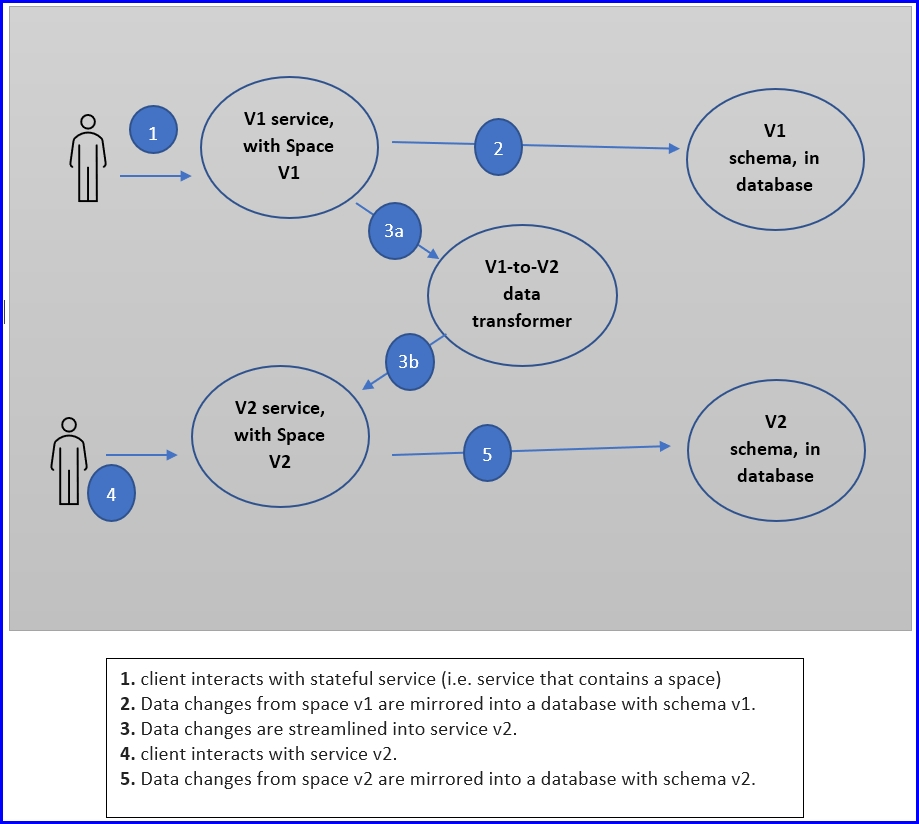
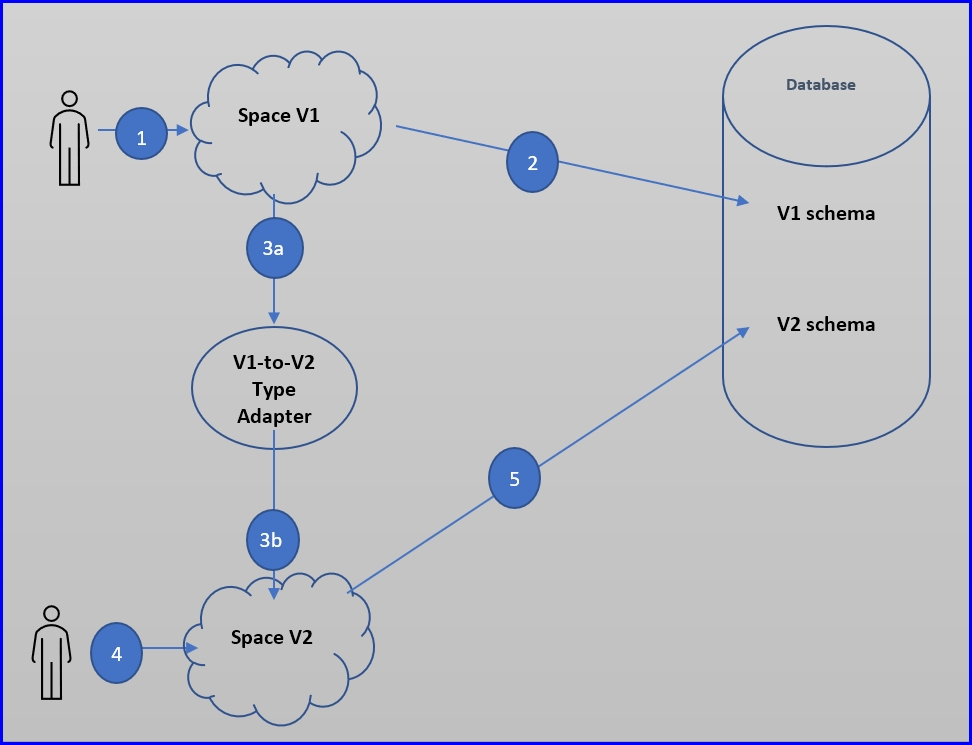
Schema Evolution, update text and diagram

diff --git a/site-flare/Content/production/Data-Types,-Schema-Types-and-Schema-Evolution.html b/site-flare/Content/production/Data-Types,-Schema-Types-and-Schema-Evolution.html
@@ -23,18 +23,12 @@
         <p>As the name implies, a fixed schema has fields with hard-coded data definitions.  Fixed schema data objects are also referred to as schema-on-write objects. Although the data definitions themselves may offer some flexibility (such as a variable-length string), the overall schema is fixed when the object is created.</p>
         <p>A fixed schema may be appropriate when the data in each instance of an object (like each row in a table) will have the same layout.</p>
         <p>A fixed schema provides the fastest possible data access.</p>
-        <h3>Use Cases</h3>
-        <p>&lt;&lt;Operational use cases explained here&gt;&gt;</p>
         <h2>Dynamic Schema</h2>
         <p>A dynamic schema allows the greatest amount of flexibility for field definitions. Dynamic schema data objects are also referred to as schema-on-read objects.
 </p>
         <p>Each object instance (row) of data with a dynamic schema can have properties (columns) with different field definitions. In addition, the definition of a field can be changed at run time. </p>
-        <h3>Use Cases</h3>
-        <p>&lt;&lt;Analytical use cases explained here&gt;&gt;</p>
         <h2>Hybrid schema</h2>
         <p>A hybrid schema, as the name implies, is either a  Space Object with some dynamic properties (e.g. JSON based); or a Space Document with some fixed properties. In both cases, the object has a mix of both fixed and dynamic properties.</p>
-        <h3>Use Cases</h3>
-        <p>&lt;&lt;??? use cases explained here&gt;&gt;</p>
         <h1>Schema Evolution -- Changing a Schema</h1>
         <p>When a change is required to the underlying structure or schema of an object, this change process is referred to as <b>Schema Evolution</b>.</p>
         <h2>Methods for Schema Evolution</h2>
@@ -45,20 +39,25 @@
             <li>Online transformation of a fixed-schema object -- <b>Schema Evolution Without Downtime</b>.</li>
         </ul>
         <h3>Schema Evolution by Use of Dynamic Properties</h3>
-        <p>xxxxxxxxxxxxx</p>
-        <h3>Schema Evolution of Fixed Properties by Copying an Object</h3>
-        <p>xxxxxx</p>
-        <p>mention:</p>
-        <p>undeploy PU</p>
-        <p>Modify schema</p>
-        <p>redeploy PU</p>
+        <p>The easiest way to achieve schema evolution is via dynamic properties - each entry can store a set of dynamic properties, which are not bound by the type schema. In this case schema evolution is automatic - your app simply starts writing entries with additional properties. No change is required in the space.</p>
+        <p>The downside is that the memory requirement increases - because there's no schema for those properties, each entry's memory footprint is larger.</p>
+        <h3>Schema Evolution of Fixed Properties by Copying the Data Store</h3>
+        <p>This approach is to undeploy the <MadCap:variable name="General.ProductNameXAP" />service, modify the schema in the external database, and then re-deploying the <MadCap:variable name="General.ProductNameXAP" /> service. This will initial-load the modified schema and data.</p>
+        <p>This results in an efficient footprint in memory, but requires some downtime while the data store is being copied.</p>
         <h3>Schema Evolution of Fixed Properties via <MadCap:variable name="General.SchemaEvolutionWithoutDowntime" /></h3>
         <p><MadCap:variable name="General.SchemaEvolutionWithoutDowntime" /> can make the process of changing a fixed schema efficient and painless.</p>
-        <p><MadCap:variable name="General.SchemaEvolutionWithoutDowntime" /> works by creating a mirror service and copying the original Space (V1) to the new Space (V2). The copying process is done via a Kafka messaging layer and does not require the Space or stateful services that use the Document Store to be offline. Note that the V1 and V2 spaces co-exist side-by-side.</p>
-        <p>The schema evolution process copies each entry from the V1 object to the V2 object. A Type Adapter (data transformer) -- a function which transforms V1 to V2  --  performs the necessary conversion of the schema, on an entry-by-entry basis, as shown in the following diagram:</p>
+        <p><MadCap:variable name="General.SchemaEvolutionWithoutDowntime" /> works by creating a mirror service and copying the original Space (V1) to the new Space (V2). The copying process is done via a Kafka messaging layer and does not require the Space or stateful services that use the Document Store to be offline. Note that the V1 and V2 spaces co-exist side-by-side. External users are redirected to the new service, and the old service is closed. </p>
+        <p>The schema evolution process copies each entry from the V1 object to the V2 object. A Type Adapter (data transformer) - a function which transforms V1 to V2  -  performs the necessary conversion of the schema, on an entry-by-entry basis, as shown in the following diagram:</p>
         <p>
             <img src="../Resources/Static/images/SEWD overview.jpg" />
         </p>
+        <ol>
+            <li>Client interacts with stateful service (i.e. service that contains a space)</li>
+            <li>Data changes from space V1 are mirrored into database with schema V1.</li>
+            <li>Data changes are streamlined into service V2, using a customized Type Adapter.</li>
+            <li>Client interacts with service V2.</li>
+            <li>Data changes from space V2 are mirrored into database with schema V2.</li>
+        </ol>
         <p>While the copying process is underway, all requests are logged for later processing with the new V2 object. No data is lost. There is no downtime and no requirement to make the SO offline.</p>
         <h3>Schema Changes Allowed with <MadCap:variable name="General.SchemaEvolutionWithoutDowntime" /></h3>
         <p>The following types of changes can be performed:</p>
